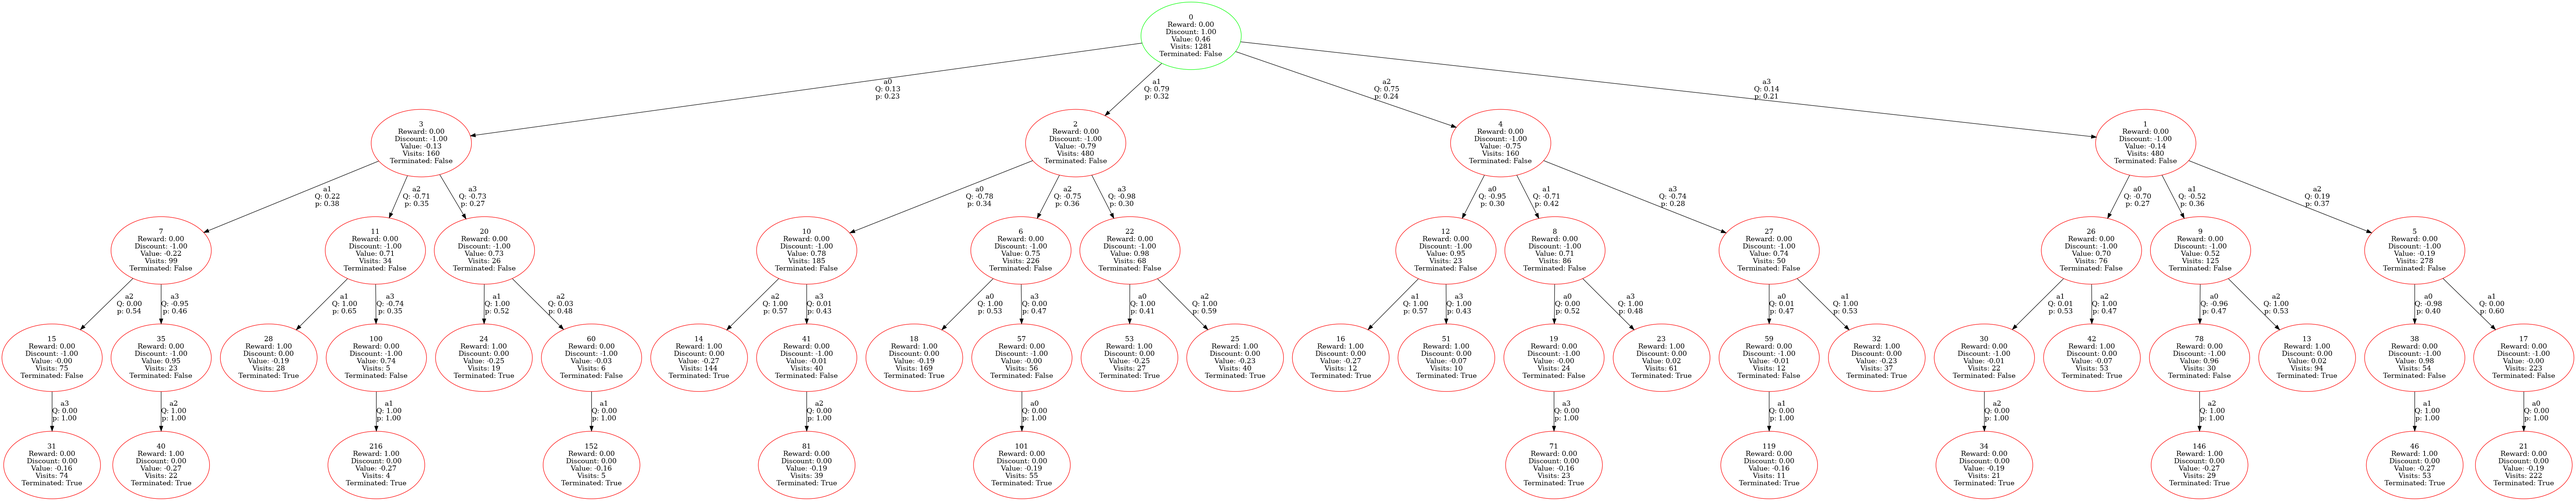
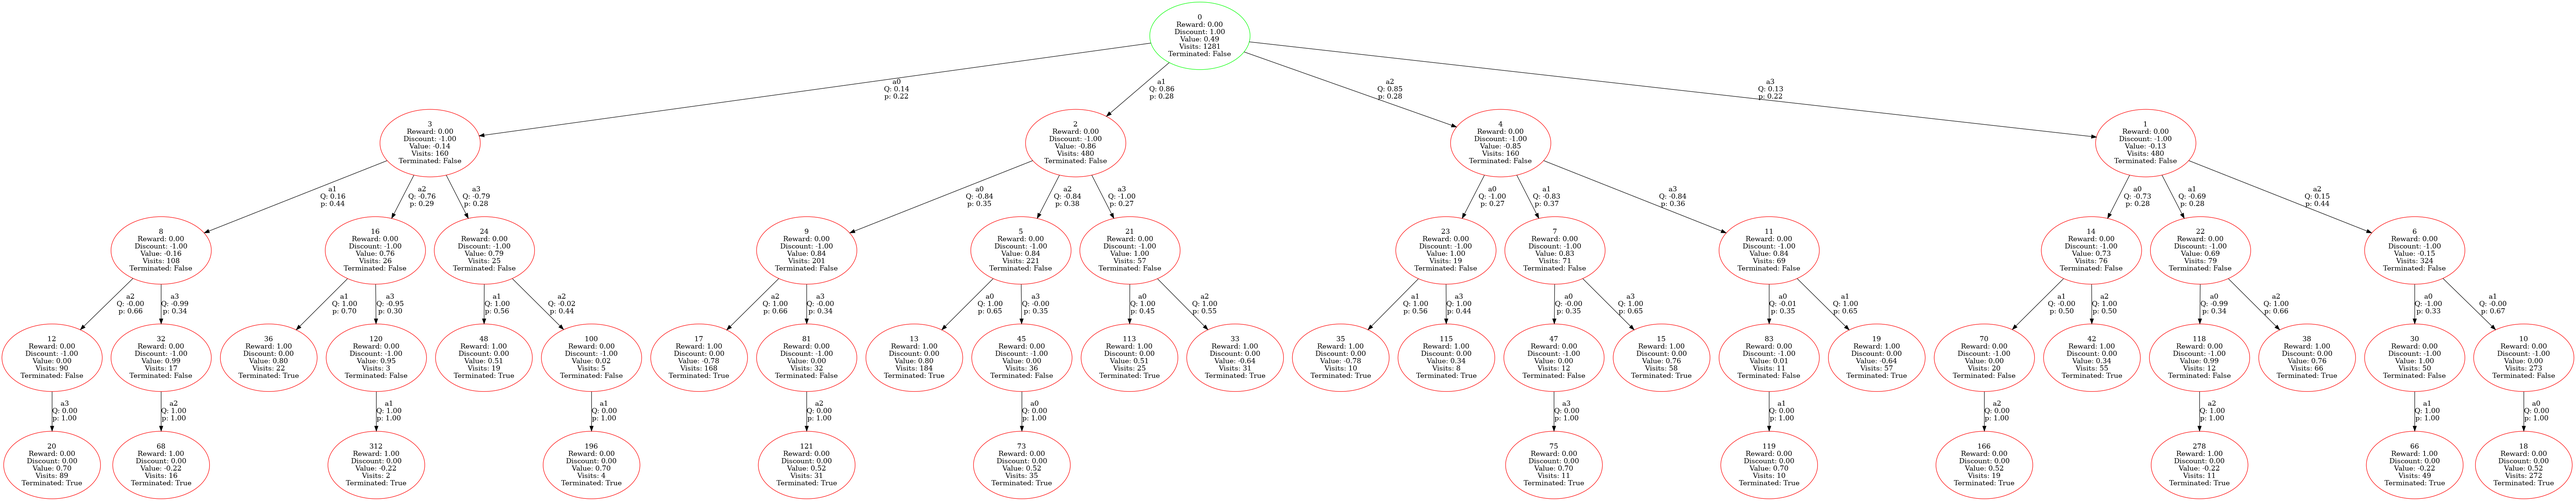
Make training deterministic
* Load agent checkpoint before plotting the search tree.

diff --git a/plot_search_tree.py b/plot_search_tree.py
@@ -14,79 +14,92 @@ Usage:
     # output is at ./search_search.png
 """
 
+import os
+import pickle
+
 import jax
 import jax.numpy as jnp
 import mctx
 import pygraphviz
+from fire import Fire
 
 from connect_two_game import Connect2Game
 from policy_net import PolicyValueNet
 from tree_search import recurrent_fn
 from utils import replicate
 
-agent = PolicyValueNet()
-batch_size = 1
-game = Connect2Game()
-prior_logits, value = agent(game.board)
-root = mctx.RootFnOutput(prior_logits=prior_logits, value=value, embedding=game)
-root = replicate(root, batch_size)
-rng_key = jax.random.PRNGKey(42)
 
-policy_output = mctx.gumbel_muzero_policy(
-    params=agent,
-    rng_key=rng_key,
-    root=root,
-    recurrent_fn=recurrent_fn,
-    num_simulations=1280,
-    gumbel_scale=1.0,
-    qtransform=mctx.qtransform_by_parent_and_siblings,
-)
+def main(ckpt_filepath: str = "./agent.ckpt"):
+    """Run a `gumbel_muzero_policy` at the start position and plot the search tree."""
+    agent = PolicyValueNet()
 
-tree = policy_output.search_tree
-action_labels = ["a0", "a1", "a2", "a3"]
+    if os.path.isfile(ckpt_filepath):
+        print("Loading checkpoint at", ckpt_filepath)
+        with open(ckpt_filepath, "rb") as f:
+            agent = agent.load_state_dict(pickle.load(f))
 
+    batch_size = 1
+    game = Connect2Game()
+    prior_logits, value = agent(game.canonical_observation())
+    root = mctx.RootFnOutput(prior_logits=prior_logits, value=value, embedding=game)
+    root = replicate(root, batch_size)
+    rng_key = jax.random.PRNGKey(42)
 
-def node_to_str(node_i, reward=0, discount=1):
-    return (
-        f"{node_i}\n"
-        f"Reward: {reward:.2f}\n"
-        f"Discount: {discount:.2f}\n"
-        f"Value: {tree.node_values[batch_index, node_i]:.2f}\n"
-        f"Visits: {tree.node_visits[batch_index, node_i]}\n"
-        f"Terminated: {tree.children_terminated[batch_index, node_i]}\n"
+    policy_output = mctx.gumbel_muzero_policy(
+        params=agent,
+        rng_key=rng_key,
+        root=root,
+        recurrent_fn=recurrent_fn,
+        num_simulations=1280,
+        gumbel_scale=1.0,
+        qtransform=mctx.qtransform_by_parent_and_siblings,
     )
 
+    tree = policy_output.search_tree
+    action_labels = ["a0", "a1", "a2", "a3"]
 
-def edge_to_str(node_i, a_i):
-    node_index = jnp.full([batch_size], node_i)
-    probs = jax.nn.softmax(tree.children_prior_logits[batch_index, node_i])
-    return (
-        f"{action_labels[a_i]}\n"
-        f"Q: {tree.qvalues(node_index)[batch_index, a_i]:.2f}\n"
-        f"p: {probs[a_i]:.2f}\n"
-    )
+    def node_to_str(node_i, reward=0, discount=1):
+        return (
+            f"{node_i}\n"
+            f"Reward: {reward:.2f}\n"
+            f"Discount: {discount:.2f}\n"
+            f"Value: {tree.node_values[batch_index, node_i]:.2f}\n"
+            f"Visits: {tree.node_visits[batch_index, node_i]}\n"
+            f"Terminated: {tree.children_terminated[batch_index, node_i]}\n"
+        )
+
+    def edge_to_str(node_i, a_i):
+        node_index = jnp.full([batch_size], node_i)
+        probs = jax.nn.softmax(tree.children_prior_logits[batch_index, node_i])
+        return (
+            f"{action_labels[a_i]}\n"
+            f"Q: {tree.qvalues(node_index)[batch_index, a_i]:.2f}\n"
+            f"p: {probs[a_i]:.2f}\n"
+        )
+
+    graph = pygraphviz.AGraph(directed=True)
+    batch_index = 0
+    # Add root
+    graph.add_node(0, label=node_to_str(node_i=0), color="green")
+    # Add all other nodes and connect them up.
+    for node_i in range(tree.num_simulations):
+        for a_i in range(tree.num_actions):
+            # Index of children, or -1 if not expanded
+            children_i = tree.children_index[batch_index, node_i, a_i]
+            if children_i >= 0:
+                graph.add_node(
+                    children_i,
+                    label=node_to_str(
+                        node_i=children_i,
+                        reward=tree.children_rewards[batch_index, node_i, a_i],
+                        discount=tree.children_discounts[batch_index, node_i, a_i],
+                    ),
+                    color="red",
+                )
+                graph.add_edge(node_i, children_i, label=edge_to_str(node_i, a_i))
+
+    graph.draw("search_tree.png", prog="dot")
 
 
-graph = pygraphviz.AGraph(directed=True)
-batch_index = 0
-# Add root
-graph.add_node(0, label=node_to_str(node_i=0), color="green")
-# Add all other nodes and connect them up.
-for node_i in range(tree.num_simulations):
-    for a_i in range(tree.num_actions):
-        # Index of children, or -1 if not expanded
-        children_i = tree.children_index[batch_index, node_i, a_i]
-        if children_i >= 0:
-            graph.add_node(
-                children_i,
-                label=node_to_str(
-                    node_i=children_i,
-                    reward=tree.children_rewards[batch_index, node_i, a_i],
-                    discount=tree.children_discounts[batch_index, node_i, a_i],
-                ),
-                color="red",
-            )
-            graph.add_edge(node_i, children_i, label=edge_to_str(node_i, a_i))
-
-
-graph.draw("search_tree.png", prog="dot")
+if __name__ == "__main__":
+    Fire(main)

diff --git a/train_agent.py b/train_agent.py
@@ -159,7 +159,6 @@ def loss_fn(net, data: TrainingExample):
     action_logits = jax.nn.log_softmax(action_logits, axis=-1)
     action_prs = jnp.exp(action_logits)
     target_logits = jax.nn.log_softmax(data.action_weights)
-    target_logits = jnp.clip(target_logits, a_min=-50, a_max=None)
     kl_loss = jnp.sum(action_prs * (action_logits - target_logits), axis=-1)
     kl_loss = jnp.mean(kl_loss)
 
@@ -178,26 +177,33 @@ def train_step(net, optim, data: TrainingExample):
 def train(
     batch_size: int = 32,
     num_iterations: int = 50,
+    num_self_plays_per_iteration: int = 1024,
     learing_rate: float = 0.001,
     ckpt_filename: str = "./agent.ckpt",
+    random_seed: int = 42,
+    weight_decay: float = 1e-4,
+    sgd_momentum: float = 0.9,
 ):
     """Train an agent by self-play."""
     agent = PolicyValueNet()
     env = Connect2Game()
-    rng_key = jax.random.PRNGKey(42)
+    rng_key = jax.random.PRNGKey(random_seed)
+    shuffler = random.Random(random_seed)
 
     optim = opax.chain(
-        opax.trace(0.9),
-        opax.add_decayed_weights(1e-4),
+        opax.trace(sgd_momentum),
+        opax.add_decayed_weights(weight_decay),
         opax.scale(learing_rate),
     ).init(agent.parameters())
 
     for iteration in range(num_iterations):
         print(f"Iteration {iteration}")
         rng_key_1, rng_key = jax.random.split(rng_key, 2)
-        data = collect_selfplay_data(agent, env, rng_key_1, batch_size, 1024)
+        data = collect_selfplay_data(
+            agent, env, rng_key_1, batch_size, num_self_plays_per_iteration
+        )
         buffer = prepare_training_data(data)
-        random.shuffle(buffer)
+        shuffler.shuffle(buffer)
         buffer = jax.tree_map(lambda *xs: np.stack(xs), *buffer)
         N = buffer.state.shape[0]
         losses = []
@@ -216,9 +222,8 @@ def train(
 
     # save agent's weights to disk
     print("\n>> Saving agent's weights to file", ckpt_filename)
-    weights = pax.experimental.save_weights_to_dict(agent)
     with open(ckpt_filename, "wb") as f:
-        pickle.dump(weights, f)
+        pickle.dump(agent.state_dict(), f)
     print("Done!")
 
 

diff --git a/play.py b/play.py
@@ -6,7 +6,6 @@ import pickle
 import warnings
 
 import jax.numpy as jnp
-import pax
 from fire import Fire
 
 from connect_two_game import Connect2Game
@@ -53,13 +52,11 @@ def play_against_agent(
 
 def main(ckpt_filename: str = "./agent.ckpt", human_first: bool = True):
     """Load agent's weight from disk and start the game."""
-    with open(ckpt_filename, "rb") as f:
-        weights = pickle.load(f)
-
     warnings.filterwarnings("ignore")
-    agent = PolicyValueNet()
-    agent = pax.experimental.load_weights_from_dict(agent, weights)
     env = Connect2Game()
+    agent = PolicyValueNet()
+    with open(ckpt_filename, "rb") as f:
+        agent = agent.load_state_dict(pickle.load(f))
     play_against_agent(agent, env, human_first=human_first)
 
 

diff --git a/README.md b/README.md
@@ -13,6 +13,13 @@ python train_agent.py
 ```
 
 
+## Plot the search tree
+
+```sh
+python plot_search_tree.py 
+# ./search_tree.png
+```
+
 ## Play
 
 ```sh
